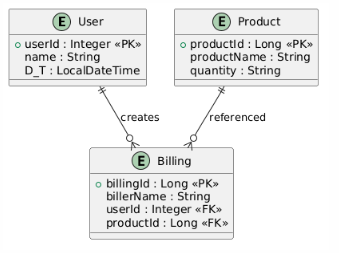
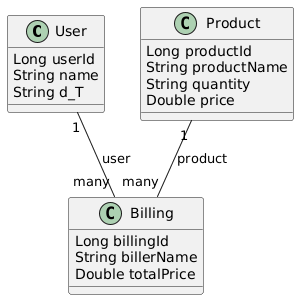
FINAL COMMIT

Changed region(s): [[0.0, 0.0, 0.9674, 0.9684]]

diff --git a/Long Programming/BillingSystem/src/main/java/org/example/billingsystem/service/BillingService.java b/Long Programming/BillingSystem/src/main/java/org/example/billingsystem/service/BillingService.java
@@ -1,30 +1,27 @@
-package org.example.billingsystem.service;
+package org.example.billingsystem.entity;
 
-import org.example.billingsystem.entity.Billing;
-import org.example.billingsystem.repo.BillingRepo;
-import org.springframework.stereotype.Service;
+import jakarta.persistence.*;
+import lombok.Getter;
+import lombok.Setter;
 
-import java.util.List;
+@Entity
+@Getter
+@Setter
+public class Billing {
 
-@Service
-public class BillingService {
+    @Id
+    @GeneratedValue(strategy = GenerationType.IDENTITY)
+    private Long billingId;
 
-    private final BillingRepo repo;
+    private String billerName;
 
-    public BillingService(BillingRepo repo) {
-        this.repo = repo;
-    }
+    private Double totalPrice;
 
-    public List<Billing> getAllBills() {
-        return repo.findAll();
-    }
+    @ManyToOne
+    @JoinColumn(name = "user_id")
+    private User user;
 
-    public Billing addBill(Billing b) {
-        return repo.save(b);
-    }
-
-    public String deleteBill(Long id) {
-        repo.deleteById(id);
-        return "Deleted successfully";
-    }
+    @ManyToOne
+    @JoinColumn(name = "product_id")
+    private Product product;
 }

diff --git a/Long Programming/BillingSystem/src/main/java/org/example/billingsystem/entity/Billing.java b/Long Programming/BillingSystem/src/main/java/org/example/billingsystem/entity/Billing.java
@@ -15,6 +15,8 @@ public class Billing {
 
     private String billerName;
 
+    private Double totalPrice;
+
     @ManyToOne
     @JoinColumn(name = "user_id")
     private User user;

diff --git a/Long Programming/BillingSystem/src/main/java/org/example/billingsystem/entity/Product.java b/Long Programming/BillingSystem/src/main/java/org/example/billingsystem/entity/Product.java
@@ -18,4 +18,7 @@ public class Product {
 
     @Column(name = "quantity")
     private String quantity;
+
+    @Column(name = "price")
+    private Double price;
 }
